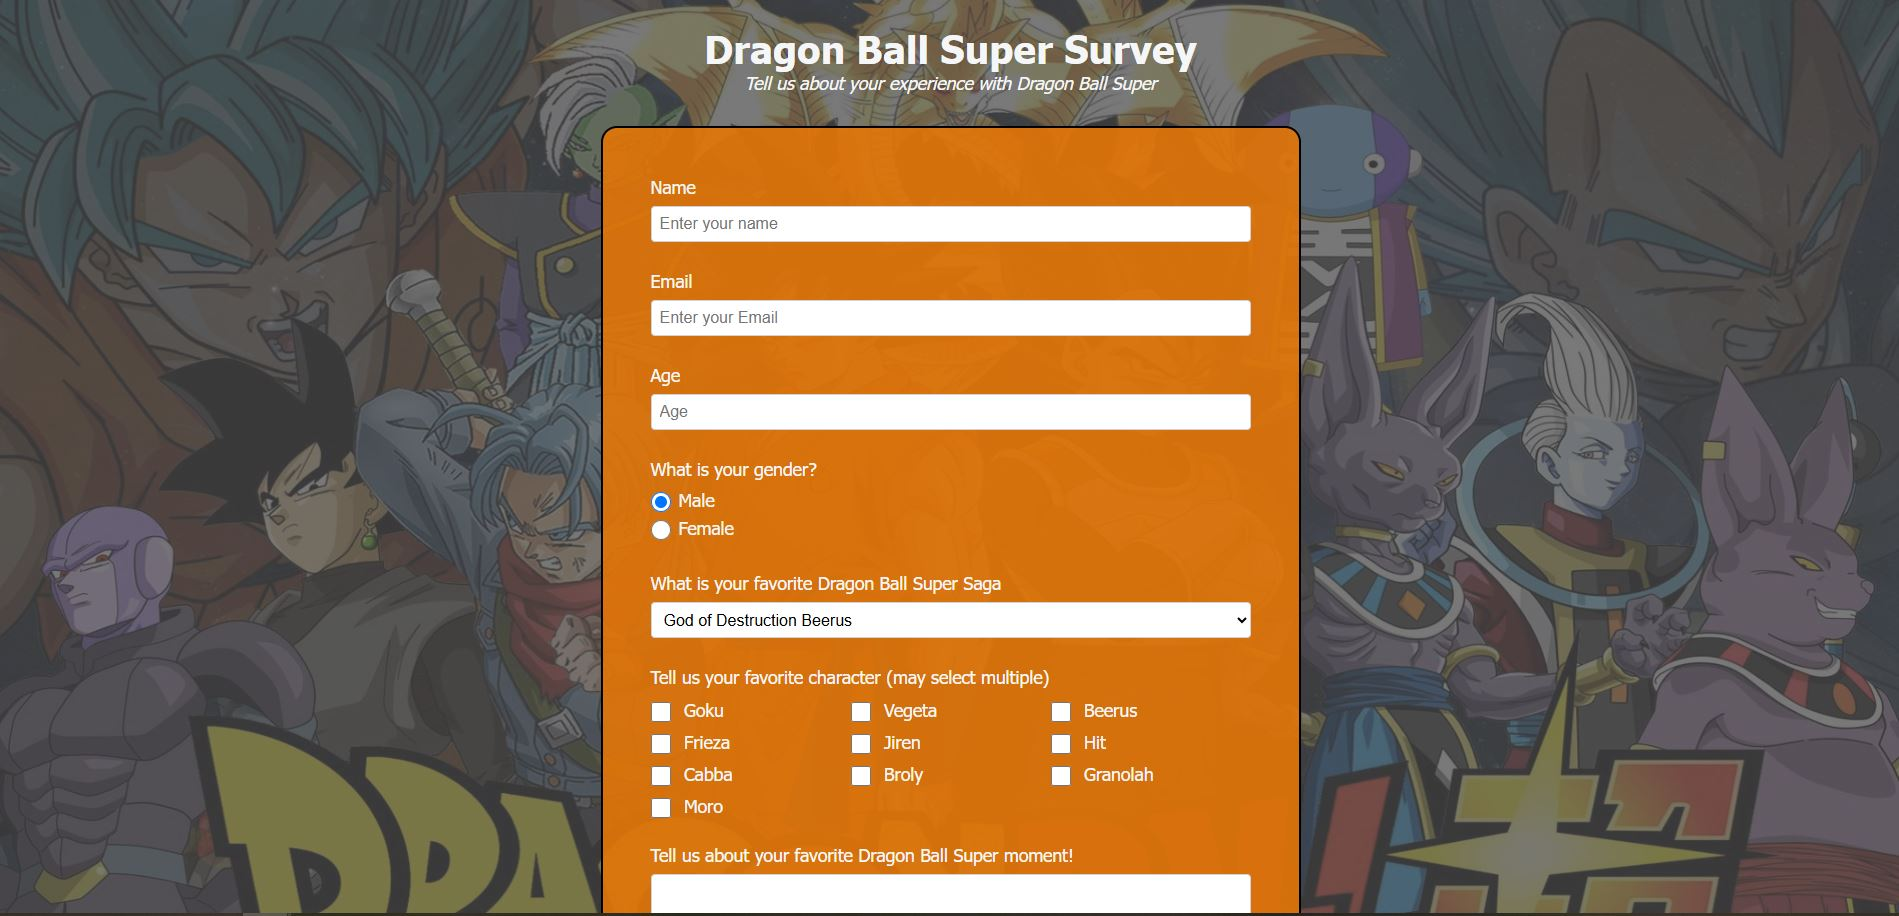
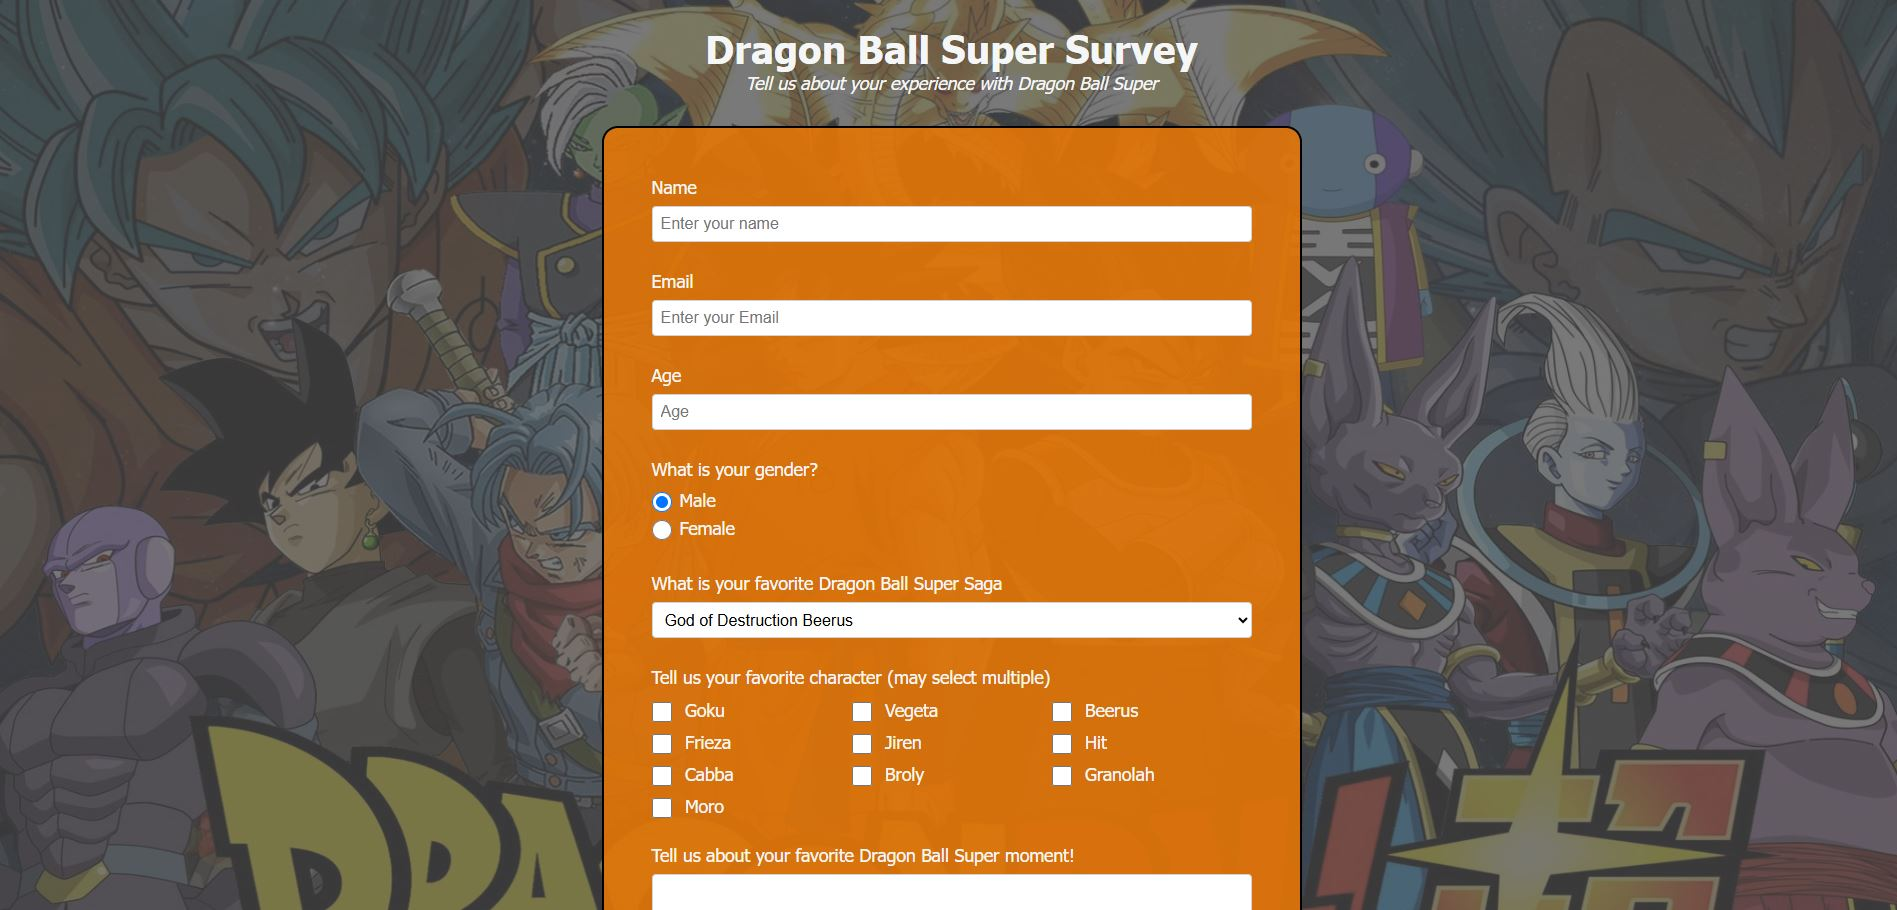
survey-form image issue

diff --git a/survey_form/README.md b/survey_form/README.md
@@ -18,5 +18,5 @@ This project uses
 ## **Output**
 
 <picture>
-  <img alt="Project Output" src="./img/survey-form.jpg" width="600" height="500">
+  <img alt="Project Output" src="./img/survey-form.JPG" width="600" height="500">
 </picture>
